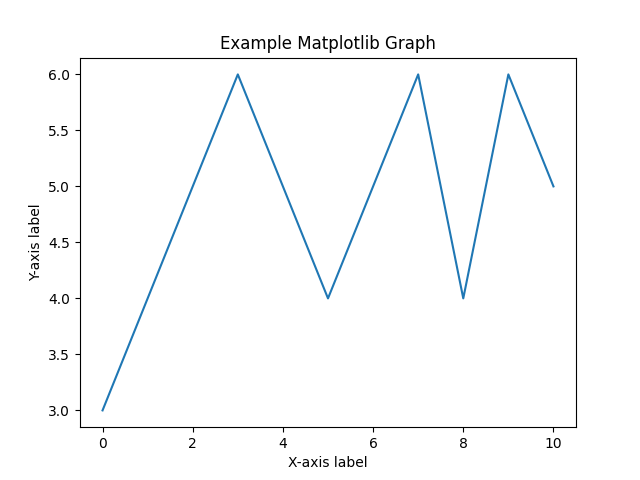
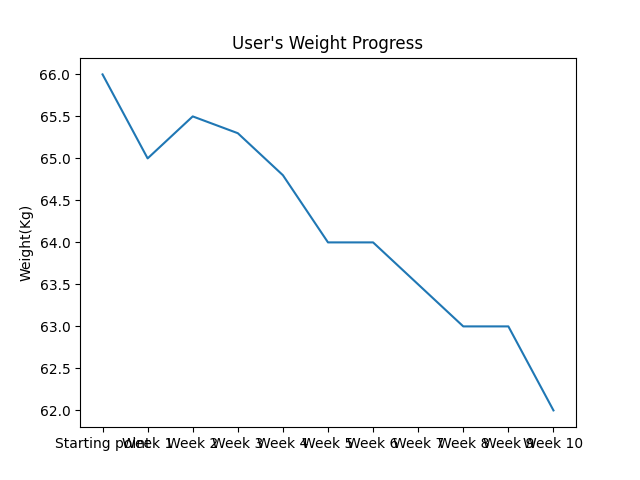
worked on the weight_form route and user_graph generation

diff --git a/app/templates/pages/user_graph.html b/app/templates/pages/user_graph.html
@@ -1,0 +1,11 @@
+{% extends 'base.html' %}
+
+{% block header %}
+  <h2>{% block title %}Weight progression{% endblock title %}</h2>
+{% endblock header %}
+
+{% block content %}
+  <div>
+    <img src="{{ url_for('static', filename='img/user_graph.png') }}"> 
+  </div>
+{% endblock content %}

diff --git a/app/utils/graph_generator.py b/app/utils/graph_generator.py
@@ -29,18 +29,30 @@ def generate_graph():
 def generate_weight_graph(weight_data):
     x_values = list(range(len(weight_data)))
     y_values = weight_data
+    name = "User"
 
     plt.plot(x_values, y_values)
-    plt.xlabel('X-axis label')
-    plt.ylabel('Y-axis label')
-    plt.title('Example Matplotlib Graph')
+    custom_labels = ['Starting point',
+                    'Week 1', 
+                    'Week 2', 
+                    'Week 3', 
+                    'Week 4',
+                    'Week 5', 
+                    'Week 6', 
+                    'Week 7', 
+                    'Week 8',
+                    'Week 9', 
+                    'Week 10']
+    plt.xticks(x_values, custom_labels)
+    plt.xlabel('')
+    plt.ylabel('Weight(Kg)')
+    plt.title(f"{name}'s Weight Progress")
 
     # Save the graph to a file
     plt.savefig(os.path.join('app', 'static', 'img', 'user_graph.png'))
-
     
 
 
 if __name__=="__main__":
-    weight_data = [3.0, 4.0, 5.0, 6.0, 5.0, 4.0, 5.0, 6.0, 4.0, 6.0, 5.0]
+    weight_data = [66.0, 65.0, 65.5, 65.3, 64.8, 64.0, 64.0, 63.5, 63.0, 63.0, 62.0]
     generate_weight_graph(weight_data)

diff --git a/app/routes/main_routes.py b/app/routes/main_routes.py
@@ -49,4 +49,5 @@ def weight_form():
         # Decide how to design the functionality overall - should a user only be able to have one weight record each?
           
         # TO DO: Return render_template with the page showing the graph?
-        return 'Form data processed successfully!'
+        # return 'Form data processed successfully!'
+        return render_template("pages/user_graph.html")
